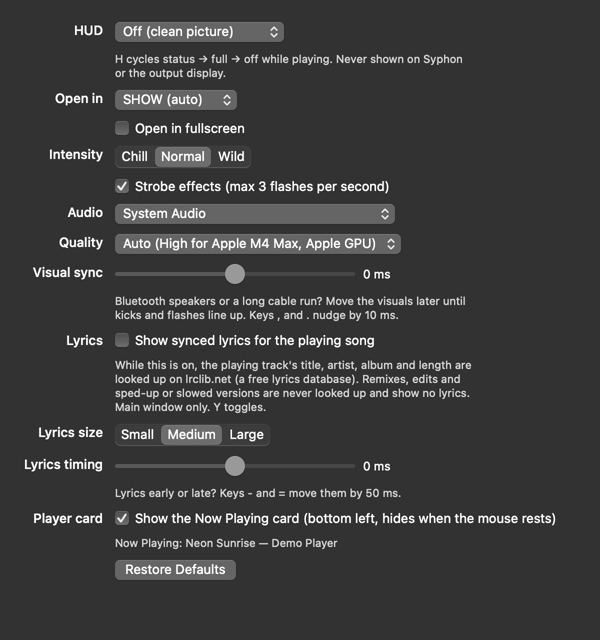
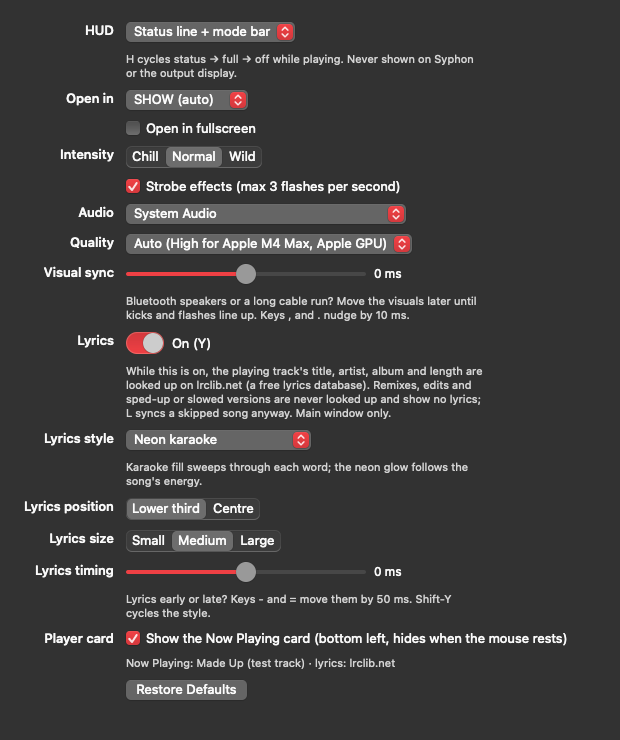
Docs: lyric styles (VJ.md, README reel + Settings shot, CHANGELOG), THIRD_PARTY.md idea credits

Changed region(s): [[0.03, 0.0312, 0.93, 0.9688]]

diff --git a/docs/VJ.md b/docs/VJ.md
@@ -81,7 +81,7 @@ not on Syphon or the output display.
 RAVE LIVE can show synced lyrics for whatever your Mac reports as Now Playing (Spotify, Music, browsers, most players),
 and a small player card bottom left with artwork, title, artist, the source app, progress and previous / play-pause / next.
 
-- **Lyrics are off until you turn them on** (Settings → Lyrics, or **Y**): while on, the playing track's title, artist,
+- **Lyrics are off until you turn them on** (Settings → Lyrics switch, or **Y**; the switch follows the key): while on, the playing track's title, artist,
   album and length are looked up on [lrclib.net](https://lrclib.net), a free lyrics database. Results are cached on your Mac
   (`~/Library/Application Support/RAVE LIVE/Lyrics`).
 - **Remixes, edits, bootlegs, VIPs, flips, mashups and sped-up / slowed / nightcore / 8D versions get no lyrics** (and are never looked up): original-song timing
@@ -101,9 +101,29 @@ and a small player card bottom left with artwork, title, artist, the source app,
   compared and the decision. Tell us that line when lyrics look wrong.
 - When lrclib.net is overloaded (503) or rate-limits (429), RAVE LIVE backs off (honouring `Retry-After`, with jitter),
   tries `/api/search` when `/api/get` fails, and retries the song after 10 s, 20 s, 40 s … up to 10 min.
-- The current line sits large and low in the middle, the next line smaller below it; lines crossfade and breathe very
-  gently on the beat (no flashing). Timing follows the audio output latency (Bluetooth, AirPlay); **-** / **=** move the
-  lyrics 50 ms earlier / later, or use the Lyrics timing slider (±1000 ms). Size: Settings → Lyrics size.
+- **Styles** (Settings → Lyrics style, or **Shift-Y** to cycle). Every style reacts to the music RAVE LIVE hears, not
+  just to the clock: the beat, the kick, the bass and the energy.
+  - **Clean** (default): white, calm. Words not sung yet are dimmed, each word brightens and lifts a little as it is sung,
+    the line breathes on the beat.
+  - **Neon karaoke**: a magenta → cyan fill sweeps through each word as it is sung; the glow follows the song's energy
+    and swells on the beat.
+  - **Pop**: one to three big words at a time (CapCut-style), each springing in as it is sung; kicks punch them.
+  - **Bass wave**: the letters ride a wave whose height follows the bass, and every kick sends a ripple from the word
+    being sung.
+  - **Spectrum**: every word is an equaliser bar, its height driven by its own frequency band (low on the left).
+  - **Auto**: Clean when it's quiet, Bass wave or Neon as the energy builds, Pop on drops (it cuts in on the drop and
+    rides it for 16 s); otherwise it only changes between lines.
+- **Word by word**: lyrics with word timing (enhanced LRC) use it. Most LRCLIB lyrics only time whole lines, so the
+  words are spread over the line by syllables and then snapped to the live beat grid (8th notes) when they are already
+  close, which is where sung words land.
+- Position: **Lower third** (default) or **Centre**; size Small / Medium / Large. No box or shade behind the text: every
+  letter has a thin dark outline and a tight shadow, so it reads on white frames too. Lines never overlap: the old line
+  fades out (0.12 s) before the new one fades in.
+- **Strobe effects off** (Settings, or **S**) also calms the lyrics: glows and brightness can't change faster than a
+  full swing in 0.4 s, and kicks punch half as hard.
+- Lines go up 150 ms before they are sung, so reading keeps up with the singer. The player's own position is used as
+  it is: players already count the Bluetooth/AirPlay delay, so it is not subtracted again (that made lyrics late on
+  Bluetooth headphones). **-** / **=** move the lyrics 50 ms earlier / later, or use the Lyrics timing slider (±1000 ms).
 - The card hides a few seconds after the mouse stops moving; **N** turns it off. HUD off (clean picture) hides both.
 - Like the HUD, lyrics and the card are on the main window only, never on Syphon or the output display (a follow-up may
   add lyrics to the output).

diff --git a/README.md b/README.md
@@ -122,6 +122,12 @@ The 0.5.1 download doesn't have these yet. They are merged on `main` and will sh
 
 - **Synced lyrics** for whatever your Mac is playing (Spotify, Music, browsers, most players): the current line large and low on screen, the next line smaller below, a soft crossfade and a gentle breath on the beat (no flashing). **Off by default**, because turning them on sends the playing track's title, artist, album and length to [lrclib.net](https://lrclib.net). Remixes, edits, sped-up and slowed versions are never looked up, so you never get wrongly timed lyrics. `Y` toggles, `-` `=` nudge the timing.
 - **Now Playing card** (bottom left): artwork, title, artist, the app it's playing in, progress, and previous / play-pause / next buttons. It hides a few seconds after the mouse stops; `N` turns it off.
+- **Lyric styles** that move with the music, not just the clock: Clean (default), Neon karaoke, Pop, Bass wave, Spectrum and Auto (follows the energy, cuts to Pop on drops). Words light up one by one, snapped to the live beat when the lyrics only time whole lines. Settings → Lyrics style, or `Shift-Y`.
+
+<p align="center">
+  <img src="docs/screenshots/lyrics-styles.webp" alt="Six lyric styles over RAVE LIVE visuals, top to bottom: Clean, Neon karaoke with a magenta-to-cyan fill sweeping through the words, Pop with two big words at a time, Bass wave with the letters riding a wave, Spectrum with each word coloured and sized like an equaliser bar, and Auto switching to Pop on a drop" width="640"><br>
+  <sub>Top to bottom: Clean, Neon karaoke, Pop, Bass wave, Spectrum, Auto on a drop. Made-up lyrics from a local test server, recorded from the app's own window (demo audio).</sub>
+</p>
 - **New Settings rows** for lyrics on/off, lyrics size and timing, the player card, and what Now Playing currently sees.
 - **Smoother long sets and better recovery:** no more small stutter every 2 seconds late in a long set, system audio comes back on its own after sleep or a display change, Syphon keeps full frame rate while the window is covered, and the window appears at once on first launch.
 
@@ -135,8 +141,8 @@ Full list: [CHANGELOG.md](CHANGELOG.md).
 </p>
 
 <p align="center">
-  <img src="docs/screenshots/settings.png" alt="The Settings window: HUD, Open in, Intensity, Strobe effects, Audio, Quality, Visual sync, and the 0.6.0 Lyrics, Lyrics size, Lyrics timing and Player card rows" width="420"><br>
-  <sub>Settings (<code>⌘,</code>), shown from the 0.6.0 build. The Lyrics and Player card rows arrive with 0.6.0; everything above them is in 0.5.1.</sub>
+  <img src="docs/screenshots/settings.png" alt="The Settings window: HUD, Open in, Intensity, Strobe effects, Audio, Quality, Visual sync, then the Lyrics switch, Lyrics style, position, size, timing and Player card rows" width="420"><br>
+  <sub>Settings (<code>⌘,</code>), from a build of <code>main</code>. The Lyrics rows (switch, style, position, size, timing) and Player card are new since 0.5.1; everything above them is in 0.5.1.</sub>
 </p>
 
 ### New in 0.5
@@ -186,6 +192,7 @@ Full list: [CHANGELOG.md](CHANGELOG.md).
 | `Y` | Synced lyrics on/off (looks the song up on lrclib.net) · 0.6.0, on `main` |
 | `N` | Now Playing card on/off · 0.6.0, on `main` |
 | `-` `=` | Lyrics 50 ms earlier / later · 0.6.0, on `main` |
+| `Shift-Y` | Next lyric style (Clean, Neon karaoke, Pop, Bass wave, Spectrum, Auto) · on `main` |
 
 <p align="center">
   <img src="docs/screenshots/app-window.jpg" alt="The app window with the mode switcher at the top left and the live status bar at the bottom showing BPM, confidence, fps and latency" width="860">

diff --git a/docs/THIRD_PARTY.md b/docs/THIRD_PARTY.md
@@ -1,0 +1,22 @@
+# Third-party ideas and references
+
+Code under `Sources/` is original unless a file says otherwise. Bundled third-party software and data are listed in
+[CREDITS.md](../CREDITS.md). This file records **ideas** RAVE LIVE took from other projects (no code was copied), so the
+lineage stays visible.
+
+## Lyric styles (`Sources/RaveLiveApp/LyricStyles.swift`, `LyricsStage.swift`)
+| Idea | Where it comes from | Licence | What we used |
+|---|---|---|---|
+| Word-by-word reveal, upcoming words dimmed, the sung word lifting slightly | Apple Music time-synced lyrics / Apple Music Sing (https://www.apple.com/newsroom/2022/12/apple-introduces-apple-music-sing/) | Proprietary | The look only; own implementation. |
+| Spring-driven word entrances (scale/offset follow a damped spring) | Beautiful Lyrics for Spicetify by surfbryce (https://github.com/surfbryce/beautiful-lyrics) | No licence file (all rights reserved) | The idea only; no code read into or copied. `LyricFX.spring` is a textbook damped-spring step response. |
+| Karaoke fill sweeping through each word | Karaoke apps; Lyrics Plus for Spicetify (https://github.com/spicetify/cli/tree/main/CustomApps/lyrics-plus) | LGPL-2.1 | The idea only. |
+| Apple-Music-like lyric page with per-word timing | applemusic-like-lyrics (AMLL, https://github.com/Steve-xmh/applemusic-like-lyrics) | AGPL-3.0 | The idea only; no code used. |
+| 1-3 big words at a time popping in (kinetic captions) | TikTok / CapCut captions (https://www.capcut.com/resource/types-of-captions) | Proprietary | The look only. |
+| Text animated per character with a delay along the line | Resolume Text Animator (https://resolume.com/support/en/6/sources) | Proprietary | The idea behind Bass wave's per-letter ripple. |
+
+What RAVE LIVE adds on top (not found in the projects above): word timing estimated from syllables and snapped to the
+live beat grid when the lyrics only time whole lines, typography driven by the live analysis (kick punch, bass wave,
+one frequency band per word, energy glow) and an Auto style that follows the energy and cuts to Pop on drops.
+
+Fonts: only fonts that ship with macOS (SF Pro, SF Pro Rounded, Avenir Next Condensed) are used, by name at runtime.
+No font files are bundled.

diff --git a/CHANGELOG.md b/CHANGELOG.md
@@ -1,5 +1,16 @@
 # Changelog
 
+## [Unreleased]
+
+### Added
+- **Lyric styles** (Settings → Lyrics style, `Shift-Y` cycles): **Clean** (default), **Neon karaoke**, **Pop**, **Bass wave**, **Spectrum** and **Auto**. They react to the music RAVE LIVE hears (beat, kick, bass, energy, drops), not just to the clock. Words are revealed one by one: from word timing when the lyrics have it, otherwise spread over the line by syllables and snapped to the live beat grid. Auto picks a style from the energy and cuts to Pop on drops.
+- **Settings → Lyrics** is now an on/off switch that follows the `Y` key (and the other way round), with style, position (lower third / centre), size and timing.
+
+### Fixed
+- **Lyrics were late on Bluetooth headphones**: the player's position already counts the output delay, and RAVE LIVE subtracted it again (~180 ms on Bluetooth). Lines now also go up 150 ms early so reading keeps up with the singer, and the position keeps running when an update has no timestamp.
+- **No dark oval behind the lyrics**: readability comes from a thin outline and a tight shadow on each letter. The old and new line no longer overlap during a change (the old one fades out first).
+- The lyrics now cost about 0.3-0.5 ms of main-thread time per frame (p95) and only move layers; the old text overlay showed missed frames in test runs (frame-interval p95 16-21 ms vs 14.5-14.6 ms with the new styles and with lyrics off, 72 fps target, same session).
+
 ## [0.6.0]
 
 ### Added
